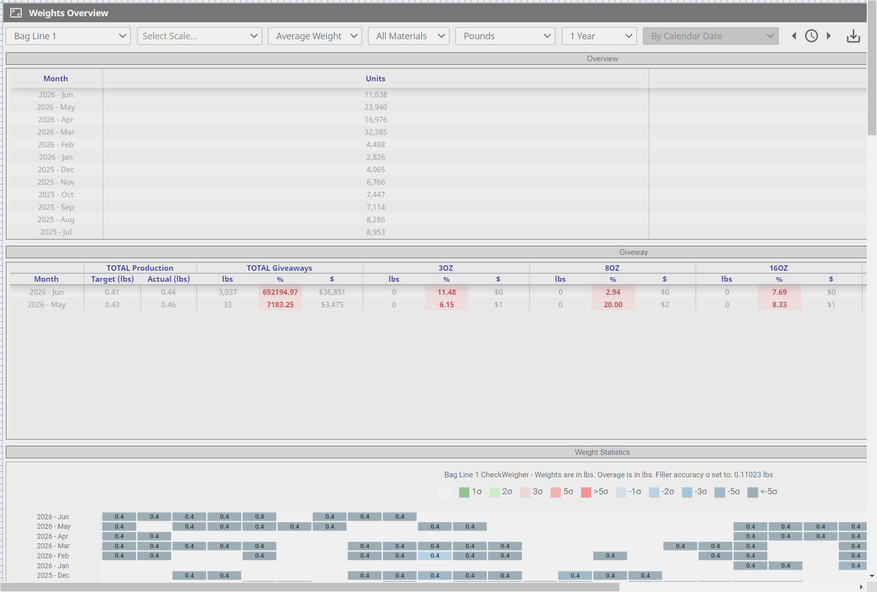
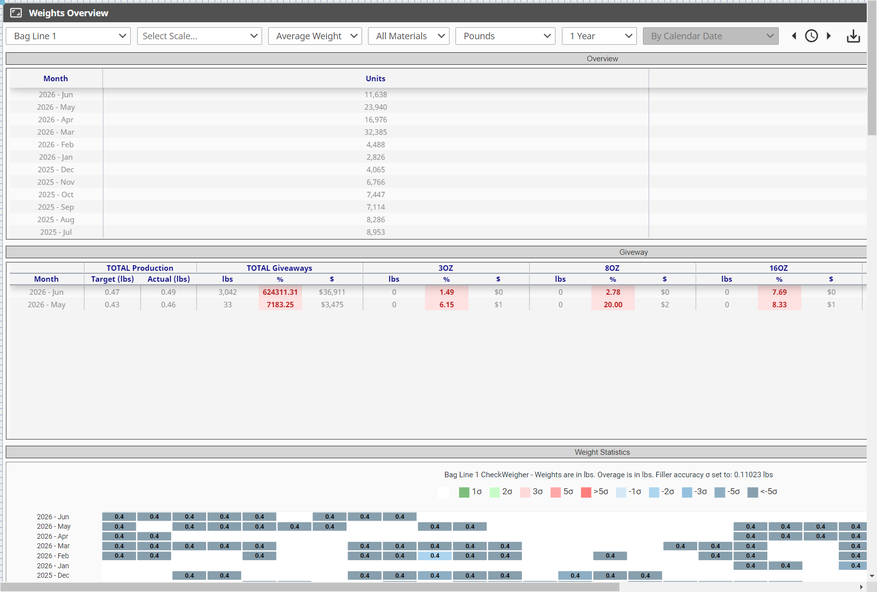
Download now has a 'Shift Giveaway tab, if 'By Shift Date' option is selected

diff --git a/ignition/script-python/Constants_P/code.py b/ignition/script-python/Constants_P/code.py
@@ -1,7 +1,7 @@
 PROJECT={
     'project_name':system.project.getProjectName(),
     'db_name':'weight',
-    'version_number':1.19,
+    'version_number':1.20,
     'project_dependencies':{
         'Core':1.65,
         'STARR':1.62,